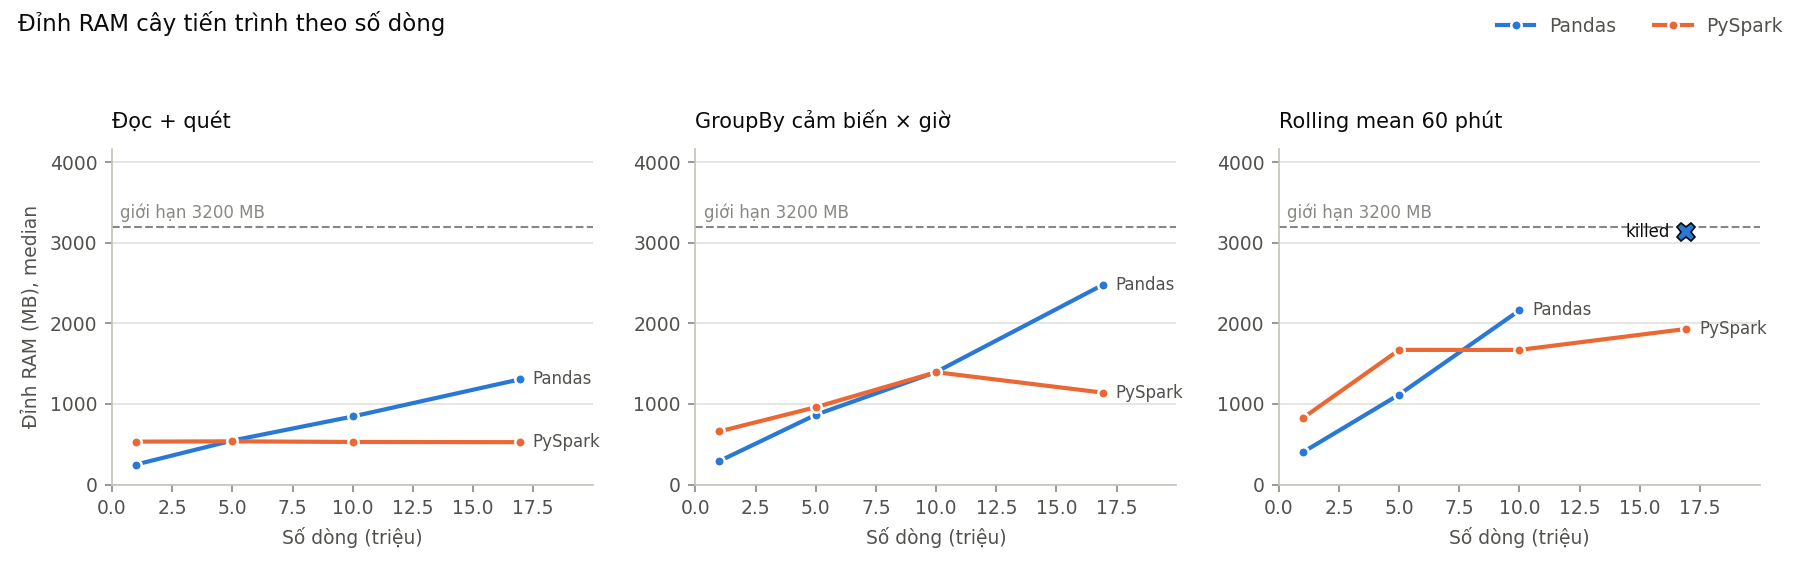
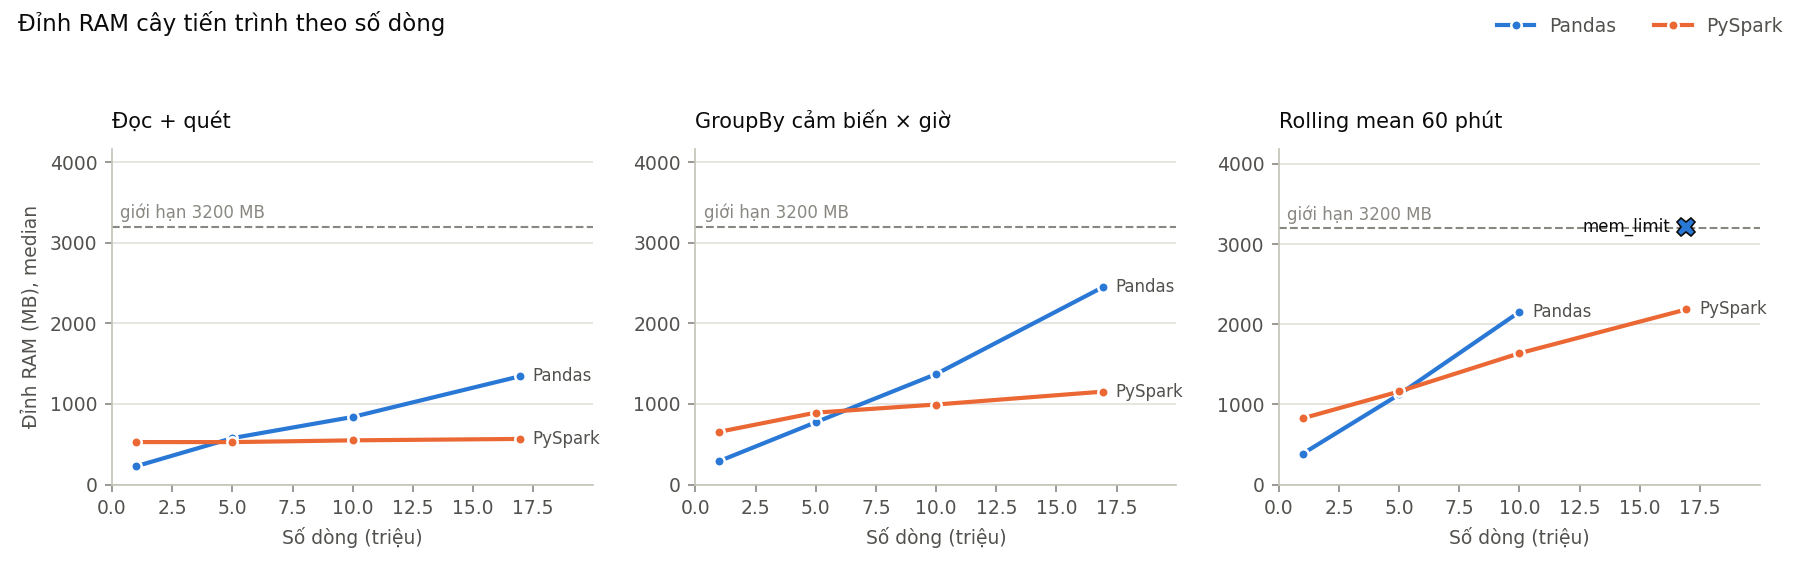
chore: rerun 1M-17M benchmark with 5 repeats and refresh charts ([D3])

diff --git a/03_benchmarks_similarity/benchmark_summary_pems_bay.md b/03_benchmarks_similarity/benchmark_summary_pems_bay.md
@@ -1,25 +1,25 @@
 # [D3] Kết quả benchmark Pandas vs PySpark (pems_bay)
 
-Sinh tự động bởi `03_benchmarks_similarity/benchmark_scaling_pandas_vs_spark.py`, run `53585bbd` (2026-11-24T15:39:12+00:00).
+Sinh tự động bởi `03_benchmarks_similarity/benchmark_scaling_pandas_vs_spark.py`, run `2befd6f5` (2026-11-25T10:09:08+00:00).
 
 - Máy: aarch64, 4 CPU logic, 3.82 GB RAM, Python 3.10.12, pandas 2.3.3, pyarrow 25.0.1, PySpark 3.5.9.
-- Spark: `local[*]`, driver `2g`, khởi động SparkSession median 3.38 s (không tính vào thời gian tác vụ).
-- Mỗi ô là median của 3 lần đo sau 1 lần khởi động. RAM là đỉnh RSS cả cây tiến trình (Python + JVM với Spark).
+- Spark: `local[*]`, driver `2g`, khởi động SparkSession median 3.08 s (không tính vào thời gian tác vụ).
+- Mỗi ô là median của 5 lần đo sau 1 lần khởi động. RAM là đỉnh RSS cả cây tiến trình (Python + JVM với Spark).
 
 | Số dòng | Tác vụ | Pandas (s) | PySpark (s) | Speedup | Pandas RAM (MB) | PySpark RAM (MB) |
 |---:|---|---:|---:|---:|---:|---:|
-| 1,000,000 | Đọc + quét | 0.017 | 0.098 | 0.17 | 249 | 533 |
-| 1,000,000 | GroupBy cảm biến × giờ | 0.049 | 0.182 | 0.27 | 293 | 660 |
-| 1,000,000 | Rolling mean 60 phút | 0.189 | 0.390 | 0.49 | 401 | 826 |
-| 5,000,000 | Đọc + quét | 0.063 | 0.165 | 0.38 | 546 | 537 |
-| 5,000,000 | GroupBy cảm biến × giờ | 0.213 | 0.360 | 0.59 | 866 | 960 |
-| 5,000,000 | Rolling mean 60 phút | 1.131 | 3.256 | 0.35 | 1117 | 1671 |
-| 10,000,000 | Đọc + quét | 0.160 | 0.250 | 0.64 | 845 | 529 |
-| 10,000,000 | GroupBy cảm biến × giờ | 0.559 | 1.340 | 0.42 | 1396 | 1394 |
-| 10,000,000 | Rolling mean 60 phút | 2.646 | 3.815 | 0.69 | 2162 | 1671 |
-| 16,937,700 | Đọc + quét | 0.240 | 0.167 | 1.44 | 1305 | 526 |
-| 16,937,700 | GroupBy cảm biến × giờ | 0.921 | 0.490 | 1.88 | 2480 | 1140 |
-| 16,937,700 | Rolling mean 60 phút | killed | 4.176 | — | > 3129 | 1931 |
+| 1,000,000 | Đọc + quét | 0.015 | 0.127 | 0.12 | 228 | 527 |
+| 1,000,000 | GroupBy cảm biến × giờ | 0.049 | 0.192 | 0.26 | 292 | 655 |
+| 1,000,000 | Rolling mean 60 phút | 0.206 | 0.374 | 0.55 | 386 | 827 |
+| 5,000,000 | Đọc + quét | 0.065 | 0.123 | 0.53 | 576 | 527 |
+| 5,000,000 | GroupBy cảm biến × giờ | 0.210 | 0.269 | 0.78 | 773 | 893 |
+| 5,000,000 | Rolling mean 60 phút | 1.134 | 1.450 | 0.78 | 1123 | 1161 |
+| 10,000,000 | Đọc + quét | 0.124 | 0.126 | 0.99 | 839 | 549 |
+| 10,000,000 | GroupBy cảm biến × giờ | 0.417 | 0.298 | 1.40 | 1371 | 993 |
+| 10,000,000 | Rolling mean 60 phút | 2.506 | 2.435 | 1.03 | 2154 | 1638 |
+| 16,937,700 | Đọc + quét | 0.199 | 0.155 | 1.29 | 1343 | 566 |
+| 16,937,700 | GroupBy cảm biến × giờ | 0.837 | 0.498 | 1.68 | 2450 | 1153 |
+| 16,937,700 | Rolling mean 60 phút | mem_limit | 4.179 | — | > 3217 | 2185 |
 
 Speedup = Pandas / PySpark, > 1 nghĩa là PySpark nhanh hơn. Trạng thái khác `ok`: `mem_limit` vượt ngân sách RAM đặt bằng `--mem-limit-mb`, `killed` bị hệ điều hành dừng (OOM killer), `oom` MemoryError/OutOfMemoryError, `timeout` quá `--timeout-s`, `skipped` không chạy vì đã lỗi ở mốc nhỏ hơn.
 
